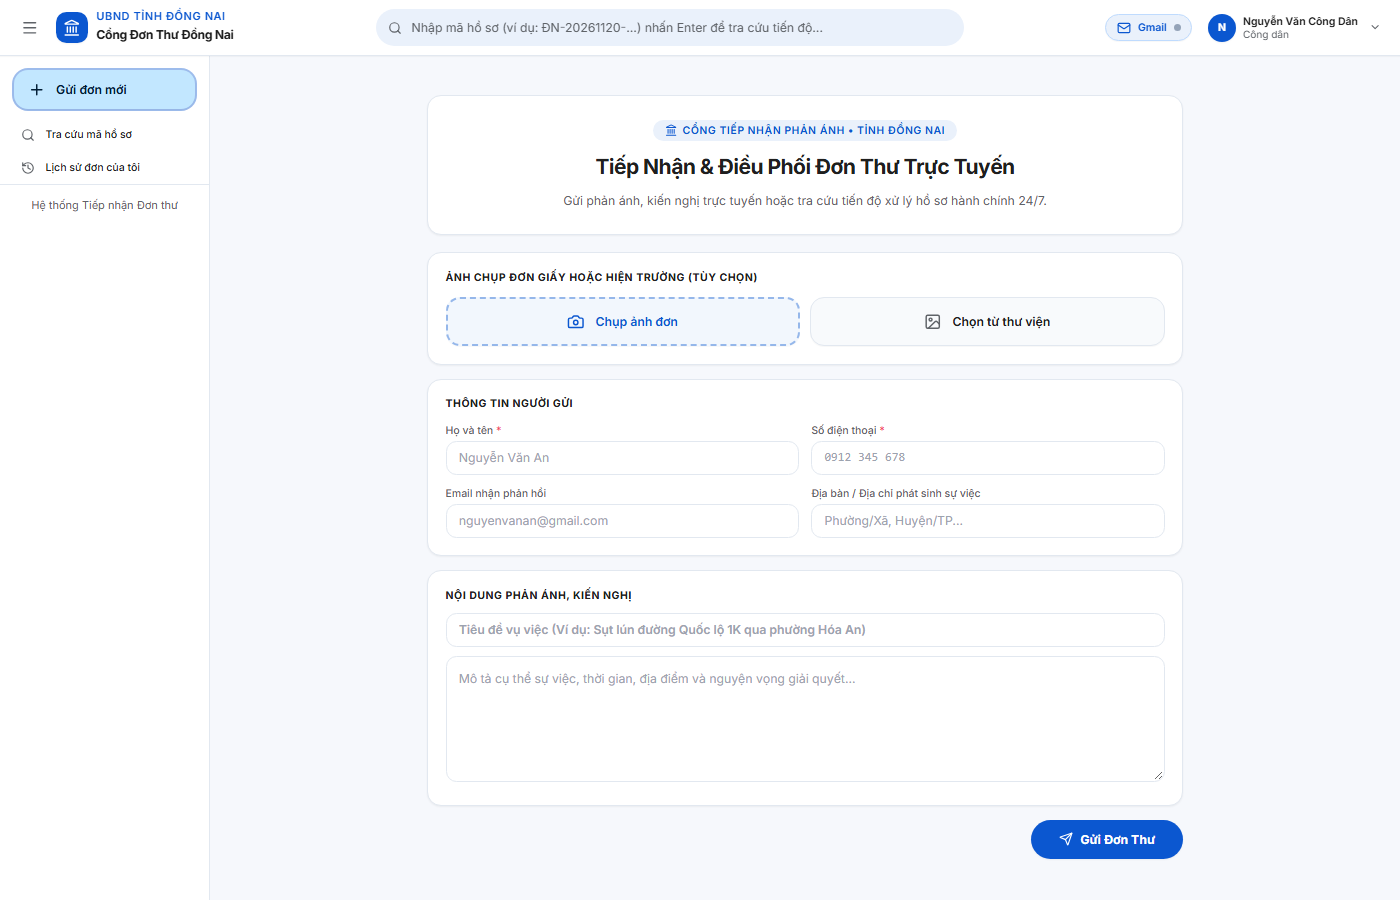
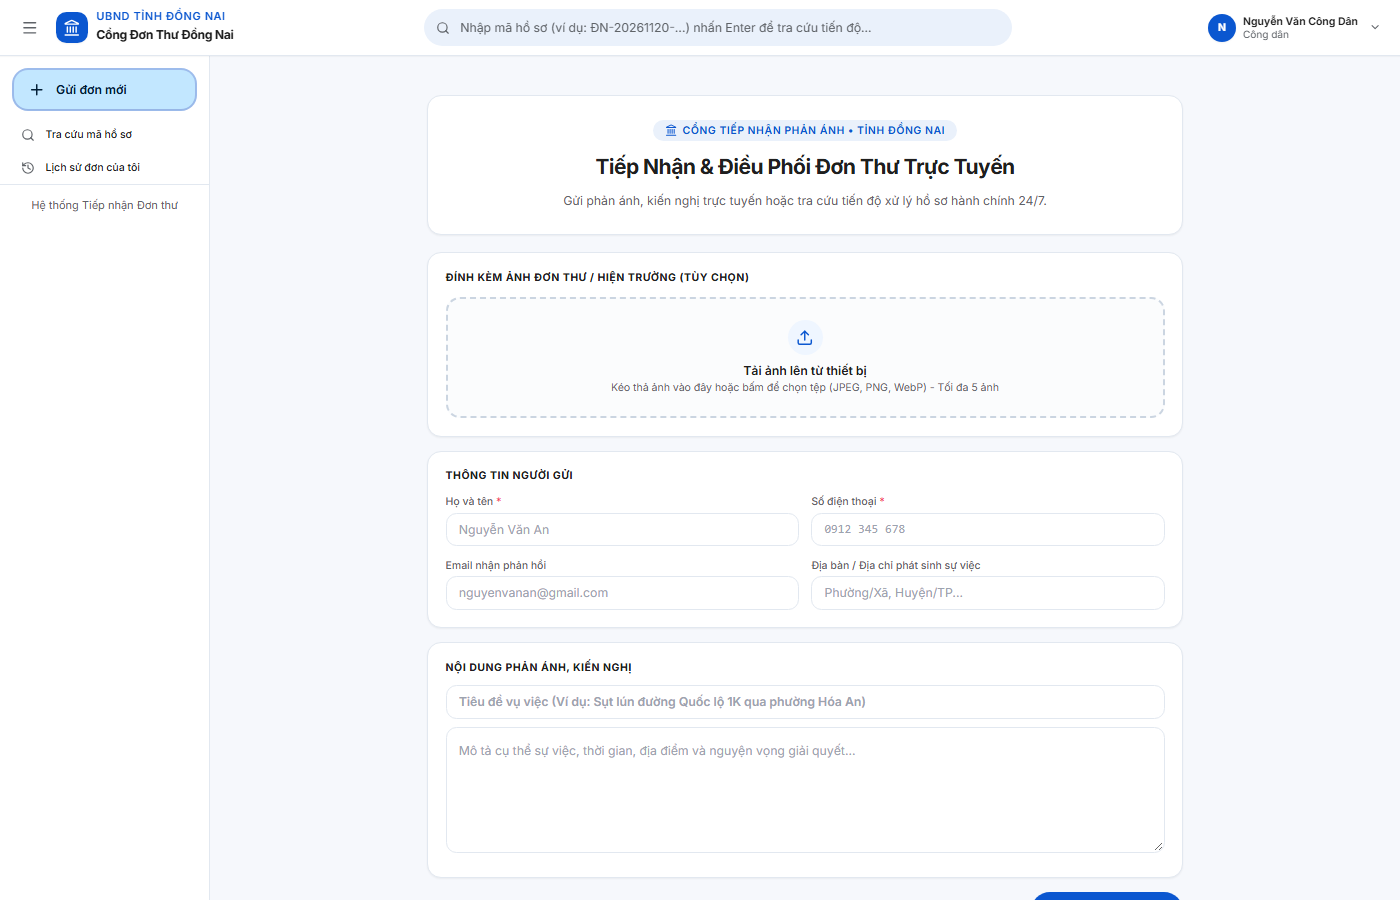
fix: fix escape in run.bat, sync port 5173 and e2e tests

diff --git a/tests/test_citizen_streamlined_nav.py b/tests/test_citizen_streamlined_nav.py
@@ -78,14 +78,12 @@ def run_tests():
         assert history_link.count() > 0, "Thiếu liên kết [Lịch sử đơn của tôi] trên Sidebar"
         print("  ✓ PASS: Sidebar Công dân chỉ gồm đúng 3 mục chuẩn.")
 
-        # Check 4: Emoji removed from Camera and Gallery buttons
+        # Check 4: Camera button removed and streamlined upload area present
+        upload_label = page.locator("text='Tải ảnh lên từ thiết bị'")
+        assert upload_label.count() > 0, "Không tìm thấy nhãn 'Tải ảnh lên từ thiết bị'"
         camera_btn = page.locator("button:has-text('Chụp ảnh đơn')")
-        gallery_btn = page.locator("button:has-text('Chọn từ thư viện')")
-        camera_text = camera_btn.first.inner_text()
-        gallery_text = gallery_btn.first.inner_text()
-        assert "📷" not in camera_text, f"Vẫn còn emoji camera trong: {camera_text}"
-        assert "🖼" not in gallery_text and "🖼" not in gallery_text, f"Vẫn còn emoji gallery trong: {gallery_text}"
-        print(f"  ✓ PASS: Nút ảnh sạch emoji: '{camera_text.strip()}' & '{gallery_text.strip()}' (Icon SVG chuẩn).")
+        assert camera_btn.count() == 0, "Nút 'Chụp ảnh đơn' vẫn còn xuất hiện!"
+        print("  ✓ PASS: Nút camera đã được loại bỏ, khung tải ảnh chuẩn thiết bị hiển thị hoàn hảo.")
 
         # Check 5: Click [Tra cứu mã hồ sơ] from Sidebar
         lookup_link.first.click()

diff --git a/tests/run_full_regression_verification.py b/tests/run_full_regression_verification.py
@@ -176,14 +176,15 @@ def run_regression():
         time.sleep(1.0)
 
         # Anti-double-submit click test
-        submit_btn = page.locator("button:has-text('Gửi Đơn Thư')")
+        submit_btn = page.locator("button[type='submit']")
         submit_btn.click()
         # Verify disabled state
         is_submitting_locked = submit_btn.is_disabled() or "Đang gửi" in submit_btn.inner_text()
         record_test("P1-04b", "Chống Double-Submit (Nút Khóa Tức Thì)", "Disabled true", f"Trạng thái: locked={is_submitting_locked}", "PASS" if is_submitting_locked else "WARNING", "isSubmittingRef ngăn chặn gửi trùng lặp")
 
         # Wait for receipt
-        page.wait_for_selector(":text('Mã hồ sơ'), :text('Biên Nhận'), :text('Gửi Phản Ánh Thành Công')", timeout=25000)
+        receipt_el = page.locator("text='Biên Nhận Điện Tử • Tiếp Nhận Thành Công'")
+        receipt_el.wait_for(state="visible", timeout=30000)
         time.sleep(1.0)
         page.screenshot(path=str(RETEST_DIR / "retest_01_citizen_image_only_success.png"))
 

diff --git a/tests/test_image_upload_streamlined.py b/tests/test_image_upload_streamlined.py
@@ -113,8 +113,8 @@ def test_streamlined_image_upload():
         print("   -> Đã bấm 'Gửi Đơn Thư'...")
 
         # Chờ modal biên nhận thành công xuất hiện
-        receipt_modal = page.locator("text='Tiếp Nhận Đơn Thư Thành Công'")
-        receipt_modal.wait_for(state="visible", timeout=20000)
+        receipt_modal = page.locator("text='Biên Nhận Điện Tử • Tiếp Nhận Thành Công'")
+        receipt_modal.wait_for(state="visible", timeout=25000)
         assert receipt_modal.is_visible(), "Không hiển thị biên nhận nộp đơn thành công!"
 
         tracking_code_el = page.locator("div.font-mono.font-black")

diff --git a/tests/test_e2e_full_flow.py b/tests/test_e2e_full_flow.py
@@ -54,7 +54,7 @@ def run_e2e_test():
     print(" BẮT ĐẦU KIỂM THỬ TỰ ĐỘNG E2E TOÀN DIỆN (PLAYWRIGHT & SQL SERVER)", flush=True)
     print("=" * 75, flush=True)
 
-    base_url = "http://localhost:3000"
+    base_url = "http://localhost:5173"
     results = {}
     created_ticket_code = None
 

diff --git a/HUONG_DAN_SU_DUNG.md b/HUONG_DAN_SU_DUNG.md
@@ -98,9 +98,9 @@ Hệ thống đã tích hợp sẵn 2 kịch bản tự động hóa cho hệ đ
 - **Tiến trình tự động:**
   1. Mở cửa sổ 1: Kích hoạt môi trường ảo Python và khởi chạy Backend FastAPI trên cổng **8000**.
   2. Đợi 2 giây để Socket và Database sẵn sàng.
-  3. Mở cửa sổ 2: Khởi chạy Frontend React Vite trên cổng **3000**.
+  3. Mở cửa sổ 2: Khởi chạy Frontend React Vite trên cổng **5173**.
 - **Địa chỉ truy cập:**
-  - **Cổng Dịch vụ công & Bàn làm việc:** `http://localhost:3000`
+  - **Cổng Dịch vụ công & Bàn làm việc:** `http://localhost:5173`
   - **Tài liệu API Swagger UI:** `http://localhost:8000/docs`
   - **Kiểm tra trạng thái Health Check:** `http://localhost:8000/health`
 
@@ -109,7 +109,7 @@ Hệ thống đã tích hợp sẵn 2 kịch bản tự động hóa cho hệ đ
   ```cmd
   .\stop.bat
   ```
-- Kịch bản sẽ tự động giải phóng sạch sẽ các tiến trình `uvicorn.exe`, `python.exe` và `node.exe` đang lắng nghe trên cổng 3000 và 8000, tránh tình trạng chiếm giữ cổng ngầm (Zombie process).
+- Kịch bản sẽ tự động giải phóng sạch sẽ các tiến trình đang lắng nghe trên cổng 5173 và 8000, tránh tình trạng chiếm giữ cổng ngầm (Zombie process).
 
 ---
 
@@ -169,7 +169,7 @@ flowchart LR
 
 ### 2.1. Đăng ký và Đăng nhập Cổng Dịch vụ công
 
-1. Mở trình duyệt web truy cập địa chỉ: `http://localhost:3000`.
+1. Mở trình duyệt web truy cập địa chỉ: `http://localhost:5173`.
 2. Màn hình đăng nhập xuất hiện:
    - Nếu đã có tài khoản: Nhập **Tên đăng nhập** (`congdan1`), **Mật khẩu** (`citizen123`), sau đó bấm **"Đăng Nhập Vào Hệ Thống"**.
    - Nếu chưa có tài khoản: Nhấp vào liên kết **"Đăng ký tài khoản công dân mới"** (`/register`), điền đầy đủ Họ và tên, Tên đăng nhập, Mật khẩu, Số điện thoại và Email. Tài khoản Công dân được hệ thống tự động kích hoạt ngay lập tức mà không cần phê duyệt thủ công.
@@ -263,7 +263,7 @@ flowchart TD
 
 ### 3.1. Đăng nhập phân hệ Cán bộ chuyên trách
 
-1. Truy cập `http://localhost:3000/login`.
+1. Truy cập `http://localhost:5173/login`.
 2. Đăng nhập bằng tài khoản cán bộ tương ứng với đơn vị của mình (Mật khẩu chung cho tất cả cán bộ kiểm thử là: `officer123`):
    - Cán bộ Giao thông: `canbo_gtvt`
    - Cán bộ Tài nguyên Môi trường: `canbo_tnmt`
@@ -272,7 +272,7 @@ flowchart TD
    - Cán bộ Giáo dục: `canbo_gddt`
    - Cán bộ Lao động Thương binh Xã hội: `canbo_ldtbxh`
    - Cán bộ Công an Tỉnh: `canbo_congan`
-   - Cán bộ Một cửa cấp Huyện: `canbo_motcua`
+   - Chuyên viên Tiếp công dân: `canbo_motcua`
 3. Sau khi xác thực thành công, hệ thống tự động đưa cán bộ vào giao diện chuyên biệt **Bàn Làm Việc Cán Bộ Thụ Lý** (`/officer`).
 
 ---

diff --git a/README.md b/README.md
@@ -62,7 +62,7 @@ npm install
 # 3. Khởi chạy giao diện phát triển
 npm run dev
 ```
-- **Cổng Dịch vụ công & Bàn làm việc:** `http://localhost:3000`
+- **Cổng Dịch vụ công & Bàn làm việc:** `http://localhost:5173`
 
 ---
 
